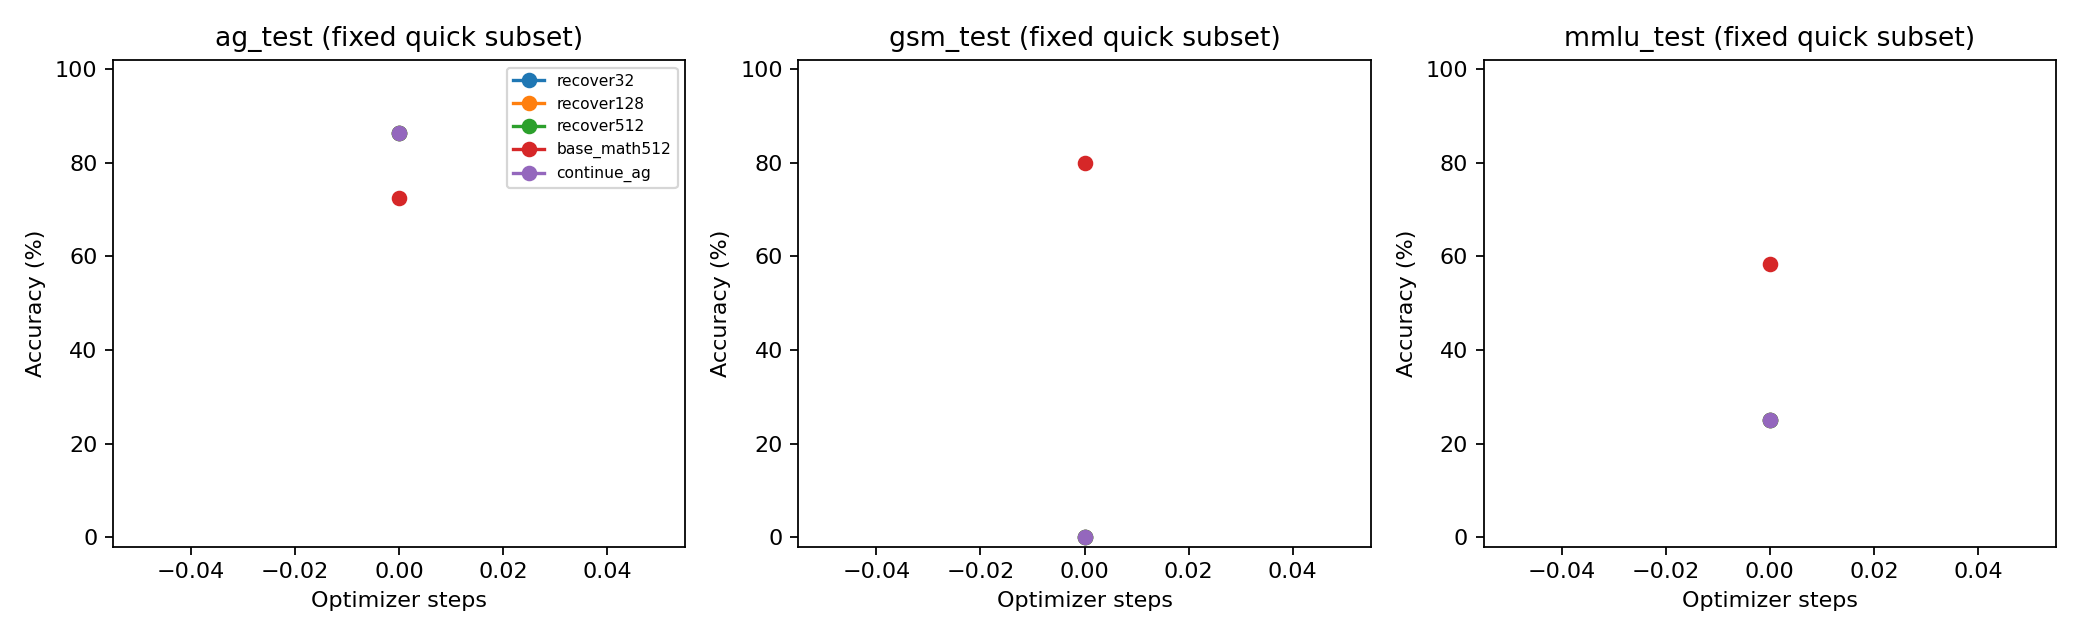
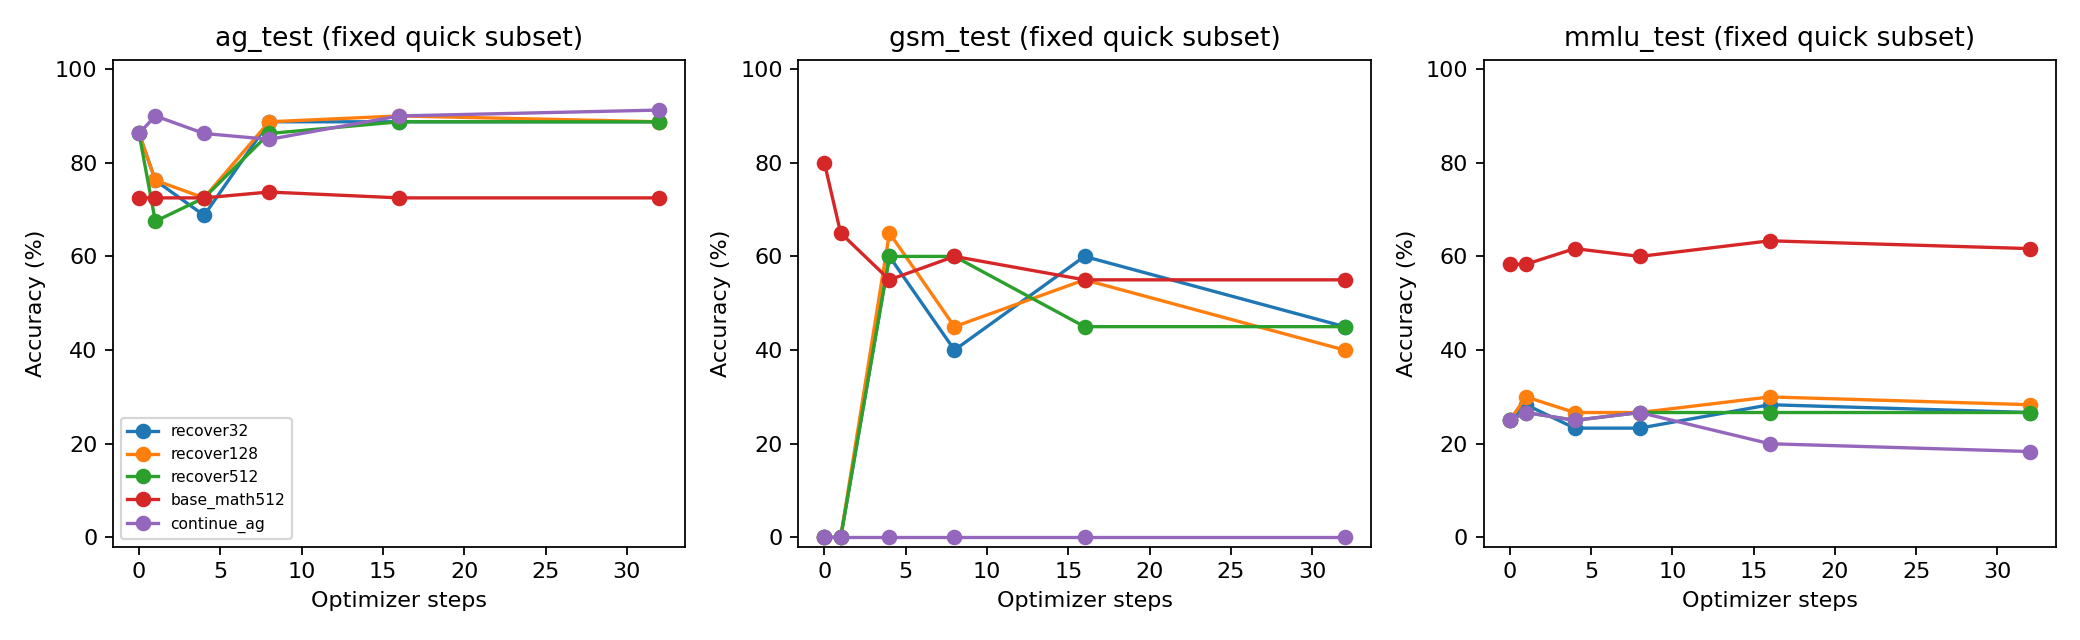
Complete stage2 runs and add prompt rescue diagnostic

diff --git a/scripts/prompt_rescue.py b/scripts/prompt_rescue.py
@@ -1,0 +1,132 @@
+"""Stage2 可选提示救援诊断：原模型与 Stage1 step 50 各用原提示/明确任务提示评快速集。"""
+import argparse
+import collections
+import csv
+import gc
+import math
+import time
+from datetime import datetime, timezone
+import torch
+from transformers import AutoModelForCausalLM, AutoTokenizer
+from common import ROOT, LABELS, chat, read_json
+from eval_checkpoint import request, number
+from stage2_common import atomic_json, digest, gsm_prompt, signature
+from stage2_eval import RecordingHFLM, inference_state
+
+MMLU_HEAD = 'The following is a multiple-choice question. Reply with the letter of the correct answer.\n'
+
+
+def build_prompt(task, row, prefix):
+    if task == 'gsm_test': return prefix + gsm_prompt(row)
+    if task == 'open': return prefix + row
+    if task == 'mmlu_test':
+        options = '\n'.join(f'{chr(65+j)}. {v}' for j, v in enumerate(row['choices']))
+        return prefix + MMLU_HEAD + row['question'] + '\n' + options + '\nAnswer:'
+    raise ValueError(task)
+
+
+def evaluate(model, tok, c, data, prefix, out, smoke):
+    out.mkdir(parents=True, exist_ok=True)
+    metrics = {'smoke': smoke}
+    with inference_state(model, tok):
+        lm = RecordingHFLM(pretrained=model, tokenizer=tok, batch_size=c['batch_size'], max_length=c['max_context_length'],
+                           truncation=True, softmax_dtype=c['softmax_dtype'])
+        lm.token_stats = collections.defaultdict(collections.deque)
+        for task in [t for t in c['tasks'] if t != 'mmlu_test']:
+            rows = data[task]; cap = c['gsm_max_new_tokens'] if task == 'gsm_test' else c['open_max_new_tokens']
+            if smoke: cap = min(cap, 8)
+            prompts = [build_prompt(task, r, prefix) for r in rows]; rendered = [chat(tok, p) for p in prompts]
+            start = time.perf_counter()
+            outputs = lm.generate_until([request('generate_until', (p, {'until': [tok.eos_token], 'max_gen_toks': cap, 'do_sample': False}), i)
+                                         for i, p in enumerate(rendered)])
+            records = []
+            for row, prompt, rp, output in zip(rows, prompts, rendered, outputs):
+                key = tuple(lm.tok_encode(rp)[-(c['max_context_length'] - cap):])
+                if not lm.token_stats[key]: raise RuntimeError('Cannot align raw token statistics with generated request')
+                r = {'source': row, 'prompt': prompt, 'output': output, **lm.token_stats[key].popleft(), 'news_label': output.strip() in LABELS}
+                if task == 'gsm_test':
+                    r.update(parsed=number(output), gold=number(row['answer'].split('####')[-1]), has_answer_marker='####' in output)
+                    r['correct'] = r['parsed'] is not None and r['parsed'] == r['gold']
+                records.append(r)
+            atomic_json(out / f'{task}.json', records)
+            n = len(records)
+            m = {'n': n, 'seconds': time.perf_counter() - start, 'news_label_rate': sum(r['news_label'] for r in records) / n,
+                 'mean_output_tokens': sum(r['output_tokens'] for r in records) / n,
+                 'length_limit_rate': sum(r['stop_reason'] == 'length_limit' for r in records) / n}
+            if task == 'gsm_test':
+                m['accuracy'] = sum(r['correct'] for r in records) / n
+                m['numeric_output_rate'] = sum(r['parsed'] is not None for r in records) / n
+            metrics[task] = m
+        if 'mmlu_test' in c['tasks']:
+            rows = data['mmlu_test']; start = time.perf_counter()
+            reqs = [request('loglikelihood', (chat(tok, build_prompt('mmlu_test', row, prefix)), chr(65+j)), 4*i+j)
+                    for i, row in enumerate(rows) for j in range(4)]
+            scores = lm.loglikelihood(reqs); records = []
+            for i, row in enumerate(rows):
+                values = [float(v[0]) for v in scores[4*i:4*i+4]]; pred = max(range(4), key=lambda j: values[j])
+                records.append({'source': row, 'loglikelihoods': values, 'prediction': pred, 'correct': pred == row['answer'],
+                                'letter_probability_mass': sum(math.exp(x) for x in values)})
+            atomic_json(out / 'mmlu_test.json', records)
+            metrics['mmlu_test'] = {'n': len(records), 'accuracy': sum(r['correct'] for r in records) / len(records),
+                'letter_probability_mass': sum(r['letter_probability_mass'] for r in records) / len(records),
+                'prediction_counts': dict(collections.Counter(chr(65+r['prediction']) for r in records)),
+                'seconds': time.perf_counter() - start}
+        del lm
+    atomic_json(out / 'metrics.json', metrics)
+    return metrics
+
+
+def summarize(rows, folder):
+    folder.mkdir(parents=True, exist_ok=True)
+    with (folder / 'summary.csv').open('w', newline='') as f:
+        w = csv.DictWriter(f, fieldnames=list(rows[0])); w.writeheader(); w.writerows(rows)
+    pct = lambda v: '—' if v is None else f'{100*v:.1f}'
+    lines = ['# 提示救援诊断', '', '零训练、快速集、greedy。两个模型同时换模板；结果单列，不替换 Stage2 主曲线。', '',
+             '| 模型 | 模板 | GSM acc | GSM 新闻标签率 | 开放题新闻标签率 | MMLU acc | MMLU 字母概率质量 |', '|---|---|---:|---:|---:|---:|---:|']
+    lines += [f"| {r['model']} | {r['template']} | {pct(r['gsm_accuracy'])} | {pct(r['gsm_news_label_rate'])} | {pct(r['open_news_label_rate'])} | "
+              f"{pct(r['mmlu_accuracy'])} | {'—' if r['mmlu_letter_mass'] is None else f'{r['mmlu_letter_mass']:.3f}'} |" for r in rows]
+    lines += ['', '单位：百分比（概率质量除外）。原始回答见 results 同名目录。']
+    (folder / 'SUMMARY.md').write_text('\n'.join(lines) + '\n')
+
+
+def main():
+    p = argparse.ArgumentParser(description=__doc__)
+    p.add_argument('--config', default='configs/prompt_rescue.json'); p.add_argument('--smoke', action='store_true')
+    p.add_argument('--device', default='cuda')
+    a = p.parse_args(); c = read_json(ROOT / a.config)
+    name = 'prompt_rescue-smoke' if a.smoke else 'prompt_rescue'
+    results, reports = ROOT / 'results' / name, ROOT / 'reports' / name
+    data = read_json(ROOT / c['eval_data'])
+    if a.smoke: data = {k: v[:2] for k, v in data.items()}
+    identity = {'config': c, 'eval_data_sha256': digest(ROOT / c['eval_data']), 'smoke': a.smoke,
+                'code_sha256': {s: digest(ROOT / 'scripts' / s) for s in ['prompt_rescue.py', 'stage2_eval.py', 'stage2_common.py', 'common.py', 'eval_checkpoint.py']}}
+    exp = results / 'experiment.json'
+    if exp.exists() and read_json(exp)['signature'] != signature(identity):
+        raise RuntimeError('Config/code/data changed; archive results/' + name + ' before rerunning')
+    atomic_json(exp, {'signature': signature(identity), 'identity': identity, 'started_utc': datetime.now(timezone.utc).isoformat()})
+    tok = AutoTokenizer.from_pretrained(ROOT / c['tokenizer'], local_files_only=True)
+    dtype = torch.bfloat16 if a.device == 'cuda' else torch.float32
+    rows = []
+    for model_name, path in c['models'].items():
+        model = None
+        for template, prefix in c['templates'].items():
+            out = results / model_name / template
+            if (out / 'metrics.json').exists():
+                m = read_json(out / 'metrics.json'); print('skip complete', model_name, template, flush=True)
+            else:
+                if model is None:
+                    model = AutoModelForCausalLM.from_pretrained(ROOT / path, local_files_only=True, torch_dtype=dtype,
+                                                                 attn_implementation='sdpa').to(a.device).eval()
+                print('evaluate', model_name, template, flush=True)
+                m = evaluate(model, tok, c, data, prefix, out, a.smoke)
+            g, o, u = m.get('gsm_test', {}), m.get('open', {}), m.get('mmlu_test', {})
+            rows.append({'model': model_name, 'template': template, 'gsm_accuracy': g.get('accuracy'), 'gsm_news_label_rate': g.get('news_label_rate'),
+                         'gsm_numeric_output_rate': g.get('numeric_output_rate'), 'open_news_label_rate': o.get('news_label_rate'),
+                         'mmlu_accuracy': u.get('accuracy'), 'mmlu_letter_mass': u.get('letter_probability_mass')})
+        del model; gc.collect()
+        if torch.cuda.is_available(): torch.cuda.empty_cache()
+    summarize(rows, reports)
+    print('Prompt rescue report:', reports / 'SUMMARY.md', flush=True)
+
+
+if __name__ == '__main__': main()

diff --git a/docs/STAGE2.md b/docs/STAGE2.md
@@ -1,6 +1,14 @@
 # Stage2：定位遗忘、比较 LoRA、尝试恢复
 
-状态：Stage2 入口已实现；当前运行状态见 results/stage2/running-status.json。运行 `uv run bash scripts/run_stage2.sh`；配置见 `configs/stage2.json`，不使用旧 Stage1 训练入口。
+状态：8 个 run 与提示救援诊断已于 2026-11-17 全部完成（单 seed，探索性）。汇总见 reports/stage2、reports/prompt_rescue。
+
+初步结论：
+- 崩塌只出现在全参 LR 1e-4；同 LR 的 LoRA 与全参 LR 2e-5 学会 AG，GSM/MMLU 基本保持。
+- GSM gold 32 步可部分恢复数学（39.5→48.5%，随独特样本数上升），但 MMLU 仍在随机水平、字母概率质量近 0。
+- 正常模型做同样的数学训练，AG 也降到 72%；继续 AG 训练保持崩塌。
+- 提示救援无效：坍缩模型换提示后 GSM/开放题仍 100% 输出新闻类别。
+
+运行 `uv run bash scripts/run_stage2.sh`；配置见 `configs/stage2.json`，不使用旧 Stage1 训练入口。
 
 ## 目标与边界
 
@@ -84,6 +92,8 @@ LoRA 参数依据 [PEFT 文档](https://huggingface.co/docs/peft/en/package_refe
 
 执行顺序为数据准备、两个起点评测、full_lr1e4、lora_lr1e4、full_lr2e5、五个恢复/控制 run、汇总。支持 --dry-run、--prepare-only、--smoke 和 --runs；smoke 在隔离目录运行每个 run 的 2 步。已完成 run 校验后跳过，未完成 run 重跑；不保存优化器恢复状态。报告至少给出早期曲线、LoRA/全参权衡图、恢复样本量曲线和原始回答对照。零恢复或 LoRA 同样崩塌都是允许的结果。
 
-实现边界：可选提示救援和 DPO/GRPO 尚未接入本入口；AG/GSM dev 已准备但不自动选最优 checkpoint。完整评测的快速子集视图由同批预测过滤得到，不额外生成。
+可选提示救援为独立入口 `uv run python scripts/prompt_rescue.py`（配置 `configs/prompt_rescue.json`，原模型与 step 50 各用原提示/明确任务提示评快速集的 GSM、开放题、MMLU），输出 results/prompt_rescue 与 reports/prompt_rescue/SUMMARY.md；`scripts/after_stage2.sh` 等 Stage2 释放进程锁后自动运行它。
+
+实现边界：DPO/GRPO 尚未接入；AG/GSM dev 已准备但不自动选最优 checkpoint。完整评测的快速子集视图由同批预测过滤得到，不额外生成。
 
 验证：8 项单元检查通过；全部 8 个 run 的两步 smoke 通过，输出位于 reports/stage2-smoke，不能作为正式实验结果。

diff --git a/README.md b/README.md
@@ -38,6 +38,9 @@ uv run bash scripts/run_stage2.sh --runs full_lr1e4 lora_lr1e4
 
 # 重新生成汇总
 uv run python scripts/report_stage2.py
+
+# 可选零训练提示救援诊断
+uv run python scripts/prompt_rescue.py
 ```
 
 Stage2 共 8 个 run、760 个优化步，先预留 4–7 GPU 小时，评测占主要时间。程序持有单实例锁并检查磁盘空间；中间状态在线评测，不为每一点保存完整模型。
@@ -50,6 +53,7 @@ Stage2 共 8 个 run、760 个优化步，先预留 4–7 GPU 小时，评测占
 - `reports/stage2/STATUS.md`：各 run 的完成状态，基线后及每个 run 结束时更新。
 - `results/stage2/running-status.json`：当前执行阶段及 run；各 run 的 `console.log` 保存日志。
 - `reports/stage2/sensitivity.png`、`recovery.png`：固定快速测试集曲线。
+- `reports/prompt_rescue/SUMMARY.md`：提示救援诊断。
 - `reports/stage2/full_endpoints.csv`：完整测试集的终点分数，不与快速集混绘。
 - `results/stage2/<run>/step-*/`：原始回答、候选打分、指标和状态哈希。
 - `artifacts/stage2/`：LoRA adapter，以及指定的两个全参末步模型。

diff --git a/reports/stage2/STATUS.md b/reports/stage2/STATUS.md
@@ -5,13 +5,13 @@
 | Run | 状态 |
 |---|---|
 | full_lr1e4 | complete |
-| lora_lr1e4 | partial |
-| full_lr2e5 | pending |
-| recover32 | pending |
-| recover128 | pending |
-| recover512 | pending |
-| base_math512 | pending |
-| continue_ag | pending |
+| lora_lr1e4 | complete |
+| full_lr2e5 | complete |
+| recover32 | complete |
+| recover128 | complete |
+| recover512 | complete |
+| base_math512 | complete |
+| continue_ag | complete |
 
 输出：quick_curve.csv、full_endpoints.csv、sensitivity.png、recovery.png（有对应数据时生成）。
 完整原始输出在同名 results 目录。未完成的 run 只作进度展示，不能当作最终结果。

diff --git a/reports/prompt_rescue/SUMMARY.md b/reports/prompt_rescue/SUMMARY.md
@@ -1,0 +1,12 @@
+# 提示救援诊断
+
+零训练、快速集、greedy。两个模型同时换模板；结果单列，不替换 Stage2 主曲线。
+
+| 模型 | 模板 | GSM acc | GSM 新闻标签率 | 开放题新闻标签率 | MMLU acc | MMLU 字母概率质量 |
+|---|---|---:|---:|---:|---:|---:|
+| base | original | 75.0 | 0.0 | 0.0 | 58.3 | 0.575 |
+| base | explicit_task_override | 75.0 | 0.0 | 0.0 | 58.3 | 0.444 |
+| collapsed | original | 0.0 | 100.0 | 100.0 | 25.0 | 0.000 |
+| collapsed | explicit_task_override | 0.0 | 100.0 | 100.0 | 31.7 | 0.000 |
+
+单位：百分比（概率质量除外）。原始回答见 results 同名目录。
